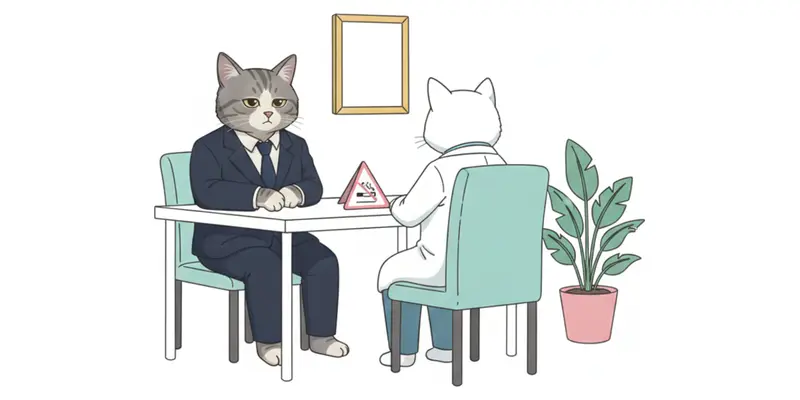
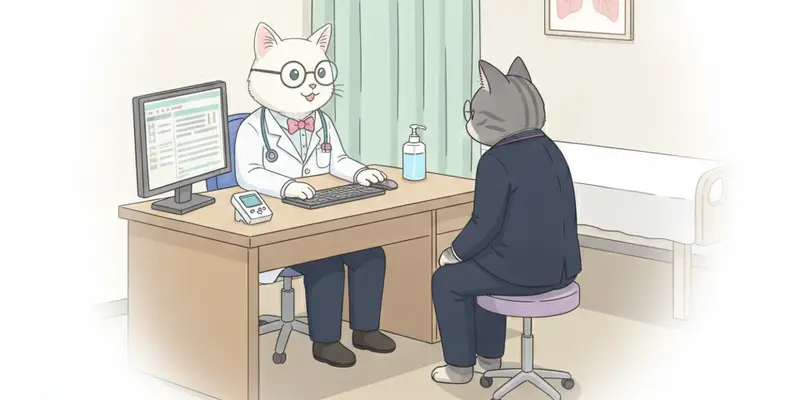
表紙の画像を外来診察室の場面に差し替え

diff --git a/index.html b/index.html
@@ -107,7 +107,7 @@ footer{flex:none;background:var(--accent);color:#fff;font-size:11px;line-height:
  </section>
 </main>
 <footer>教育用デモ。登場人物はすべて架空です。音声は Google Gemini TTS、イラストは Gemini 2.5 Flash Image で生成しました。指標は MITI 4.2.1 の考え方を簡略化したもので、実際の評価基準ではありません。 © 2026 Masahide Koda（東北大学 公衆衛生学分野）</footer>
-<div id="overlay"><div class="card"><img class="hero" src="img/title.webp" alt=""><h2 id="t-title">禁煙外来 動機づけ面接シミュレーター</h2><p id="t-intro"></p><button id="startbtn">面接をはじめる</button><p class="small" style="margin-top:12px">音声が流れます。スピーカーまたはイヤホンをご用意ください。</p><p class="small">教育用デモ。登場人物はすべて架空です。指標は MITI 4.2.1 の考え方を簡略化したもので、実際の評価基準ではありません。</p></div></div>
+<div id="overlay"><div class="card"><img class="hero" src="img/title.webp?v=2" alt=""><h2 id="t-title">禁煙外来 動機づけ面接シミュレーター</h2><p id="t-intro"></p><button id="startbtn">面接をはじめる</button><p class="small" style="margin-top:12px">音声が流れます。スピーカーまたはイヤホンをご用意ください。</p><p class="small">教育用デモ。登場人物はすべて架空です。指標は MITI 4.2.1 の考え方を簡略化したもので、実際の評価基準ではありません。</p></div></div>
 <script>
 const Q=new URLSearchParams(location.search), DEMO=Q.get('demo'); // demo=good|poor|neutral → auto path
 const CODE={OQ:'開かれた質問',CQ:'閉じた質問',SR:'単純な聞き返し',CR:'複雑な聞き返し',AF:'是認',SUM:'要約',AP:'自律性の尊重',GI:'情報提供',PER:'説得・警告',ADV:'許可のない助言',CON:'直面化'};
